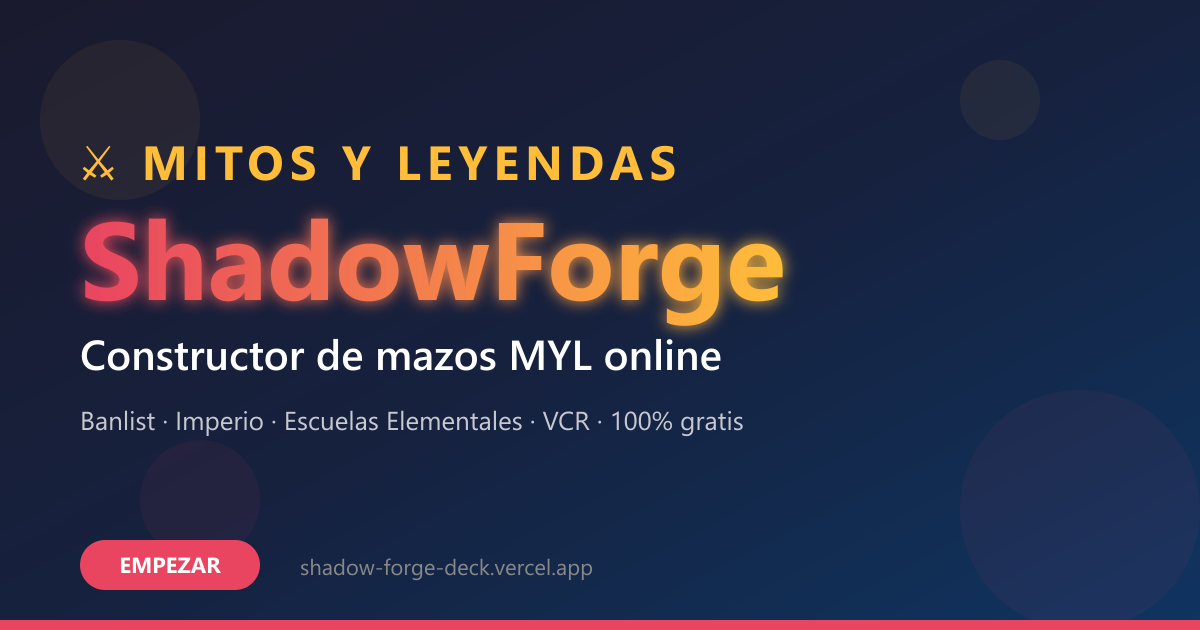
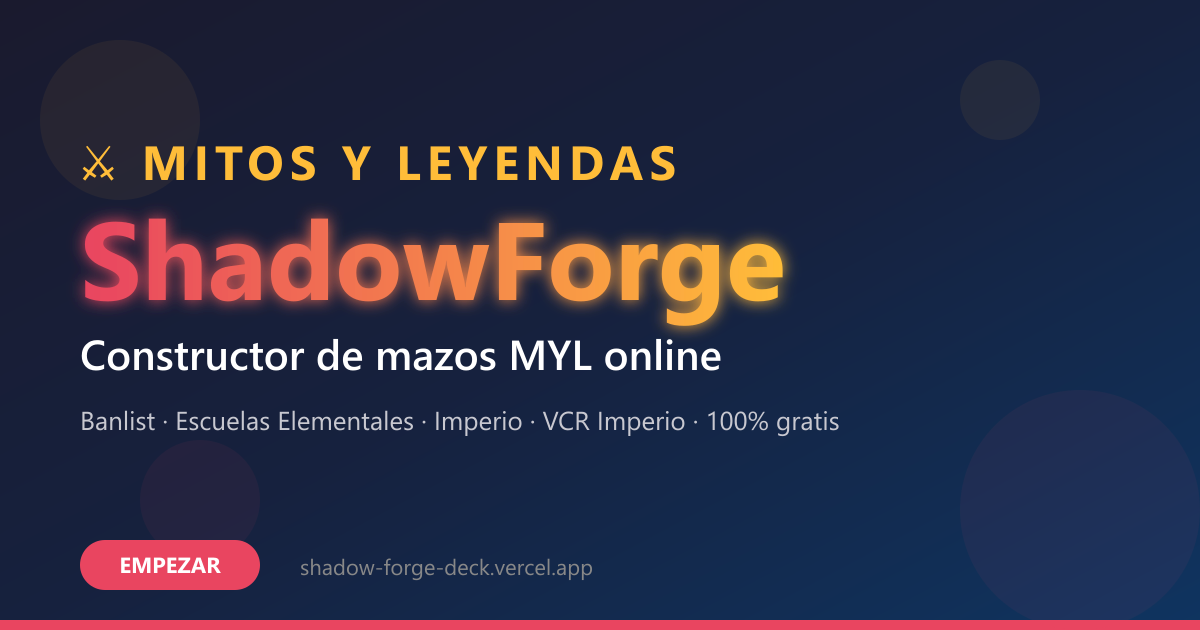
seo: terminologia unificada a Escuelas Elementales / Imperio / VCR Imperio

Changed region(s): [[0.1542, 0.6333, 0.4317, 0.6937], [0.4933, 0.6333, 0.7092, 0.6937]]

diff --git a/frontend/src/index.html b/frontend/src/index.html
@@ -21,15 +21,15 @@
   <meta name="mobile-web-app-capable" content="yes">
   <link rel="manifest" href="manifest.webmanifest">
   <meta name="theme-color" content="#e94560">
-  <meta name="description" content="ShadowForge: constructor y editor de mazos de Mitos y Leyendas (MYL). Explora todas las cartas, valida la banlist oficial, arma decks de Imperio, Escuelas Elementales, VCR y mas, gestiona tu coleccion y comparte tus mazos.">
-  <meta name="keywords" content="mitos y leyendas, MYL, mazos mitos y leyendas, deck builder MYL, banlist mitos y leyendas, VCR mitos y leyendas, imperio MYL, escuelas elementales MYL, cartas mitos y leyendas, TCG chileno, juego de cartas chileno">
+  <meta name="description" content="ShadowForge: constructor y editor de mazos de Mitos y Leyendas (MYL). Explora todas las cartas, valida la banlist oficial, arma decks de Escuelas Elementales, Imperio y VCR Imperio, gestiona tu coleccion y comparte tus mazos.">
+  <meta name="keywords" content="mitos y leyendas, MYL, mazos mitos y leyendas, deck builder MYL, banlist mitos y leyendas, VCR imperio, imperio MYL, escuelas elementales MYL, cartas mitos y leyendas, TCG chileno, juego de cartas chileno">
   <meta name="author" content="ShadowForge">
 
   <!-- Open Graph (preview en WhatsApp, Discord, Twitter, etc.) -->
   <meta property="og:type" content="website">
   <meta property="og:site_name" content="ShadowForge">
   <meta property="og:title" content="ShadowForge — Constructor de mazos Mitos y Leyendas (MYL)">
-  <meta property="og:description" content="Arma, comparte y descubre mazos de Mitos y Leyendas. Banlist oficial, formatos Imperio, Escuelas Elementales y VCR, estadísticas y colección.">
+  <meta property="og:description" content="Arma, comparte y descubre mazos de Mitos y Leyendas. Banlist oficial, formatos Escuelas Elementales, Imperio y VCR Imperio, estadísticas y colección.">
   <meta property="og:image" content="https://shadow-forge-deck.vercel.app/og-image.png">
   <meta property="og:image:width" content="1200">
   <meta property="og:image:height" content="630">
@@ -42,7 +42,7 @@
   <!-- Twitter Card -->
   <meta name="twitter:card" content="summary_large_image">
   <meta name="twitter:title" content="ShadowForge — Constructor de mazos Mitos y Leyendas">
-  <meta name="twitter:description" content="Arma, comparte y descubre mazos MYL. Banlist, Imperio, Escuelas Elementales y VCR.">
+  <meta name="twitter:description" content="Arma, comparte y descubre mazos MYL. Banlist, Escuelas Elementales, Imperio y VCR Imperio.">
   <meta name="twitter:image" content="https://shadow-forge-deck.vercel.app/og-image.png">
 
   <link rel="preconnect" href="https://iterva.pythonanywhere.com" crossorigin>
@@ -84,7 +84,7 @@
         "url": "https://shadow-forge-deck.vercel.app/",
         "applicationCategory": "GameApplication",
         "operatingSystem": "Web, Android, iOS",
-        "description": "Constructor de mazos de Mitos y Leyendas con validación de banlist, formatos Imperio, Escuelas Elementales y VCR.",
+        "description": "Constructor de mazos de Mitos y Leyendas con validación de banlist, formatos Escuelas Elementales, Imperio y VCR Imperio.",
         "inLanguage": "es-CL",
         "isAccessibleForFree": true,
         "offers": {
@@ -110,7 +110,7 @@
             "name": "¿Qué formatos de Mitos y Leyendas soporta?",
             "acceptedAnswer": {
               "@type": "Answer",
-              "text": "Soporta los formatos oficiales: Imperio, Escuelas Elementales y VCR. Cada formato aplica su propia banlist."
+              "text": "Soporta los formatos oficiales: Escuelas Elementales, Imperio y VCR Imperio. Cada formato aplica su propia banlist."
             }
           },
           {

diff --git a/frontend/src/app/app.routes.ts b/frontend/src/app/app.routes.ts
@@ -5,7 +5,7 @@ export const routes: Routes = [
   {
     path: '',
     title: 'ShadowForge — Constructor de mazos Mitos y Leyendas (MYL)',
-    data: { description: 'Arma, comparte y descubre mazos de Mitos y Leyendas. Banlist oficial, formatos Imperio, Escuelas Elementales y VCR, validador de decks y colección personal.' },
+    data: { description: 'Arma, comparte y descubre mazos de Mitos y Leyendas. Banlist oficial, formatos Escuelas Elementales, Imperio y VCR Imperio, validador de decks y colección personal.' },
     loadComponent: () => import('./pages/home/home.component').then(m => m.HomeComponent)
   },
   {
@@ -35,7 +35,7 @@ export const routes: Routes = [
   {
     path: 'decks',
     title: 'Mazos de Mitos y Leyendas — Comunidad ShadowForge',
-    data: { description: 'Descubre mazos de Mitos y Leyendas creados por la comunidad. Imperio, Escuelas Elementales, VCR y más. Filtra por formato, raza y popularidad.' },
+    data: { description: 'Descubre mazos de Mitos y Leyendas creados por la comunidad. Escuelas Elementales, Imperio y VCR Imperio. Filtra por formato, raza y popularidad.' },
     loadComponent: () => import('./pages/deck-list/deck-list.component').then(m => m.DeckListComponent)
   },
   {
@@ -51,7 +51,7 @@ export const routes: Routes = [
   {
     path: 'builder',
     title: 'Elegir formato — Constructor de mazos MYL | ShadowForge',
-    data: { description: 'Elige formato (Imperio, Escuelas Elementales, VCR) y empieza a armar tu mazo de Mitos y Leyendas con validación de banlist en tiempo real.' },
+    data: { description: 'Elige formato (Escuelas Elementales, Imperio o VCR Imperio) y empieza a armar tu mazo de Mitos y Leyendas con validación de banlist en tiempo real.' },
     loadComponent: () => import('./pages/format-select/format-select.component').then(m => m.FormatSelectComponent)
   },
   {
@@ -103,7 +103,7 @@ export const routes: Routes = [
   {
     path: 'banlist-mayo-2026',
     title: 'Banlist Mitos y Leyendas mayo 2026 — cartas baneadas y restringidas | ShadowForge',
-    data: { description: 'Banlist oficial actualizada de Mitos y Leyendas (MYL) para mayo 2026. Cartas baneadas y restringidas en Imperio, Escuelas Elementales y VCR.' },
+    data: { description: 'Banlist oficial actualizada de Mitos y Leyendas (MYL) para mayo 2026. Cartas baneadas y restringidas en Escuelas Elementales, Imperio y VCR Imperio.' },
     loadComponent: () => import('./pages/banlist-article/banlist-article.component').then(m => m.BanlistArticleComponent)
   },
   {

diff --git a/frontend/src/app/pages/banlist-article/banlist-article.component.ts b/frontend/src/app/pages/banlist-article/banlist-article.component.ts
@@ -34,9 +34,9 @@ export class BanlistArticleComponent implements OnInit {
   readonly modifiedDate = '2026-05-03';
 
   formats = signal<FormatBanlist[]>([
-    { code: 'imp', sub: 'racial', label: 'Imperio · Racial', description: 'Mazo racial clásico de Imperio.', banned: [], limited1: [], limited2: [], loading: true },
-    { code: 'imp', sub: 'vcr', label: 'Imperio · VCR', description: 'Vasallo, Cortesano y Real (formato competitivo).', banned: [], limited1: [], limited2: [], loading: true },
-    { code: 'esc', sub: 'racial', label: 'Escuelas Elementales', description: 'Mazos raciales del bloque Escuelas Elementales.', banned: [], limited1: [], limited2: [], loading: true },
+    { code: 'imp', sub: 'racial', label: 'Imperio', description: 'Banlist clásica del formato Imperio.', banned: [], limited1: [], limited2: [], loading: true },
+    { code: 'imp', sub: 'vcr', label: 'VCR Imperio', description: 'Vasallo, Cortesano y Real — formato competitivo de Imperio.', banned: [], limited1: [], limited2: [], loading: true },
+    { code: 'esc', sub: 'racial', label: 'Escuelas Elementales', description: 'Banlist del bloque Escuelas Elementales.', banned: [], limited1: [], limited2: [], loading: true },
   ]);
 
   totalBanned = signal(0);
@@ -89,7 +89,7 @@ export class BanlistArticleComponent implements OnInit {
         '@id': `https://shadow-forge-deck.vercel.app/banlist-${this.month}-${this.year}`,
       },
       image: 'https://shadow-forge-deck.vercel.app/og-image.png',
-      description: `Banlist oficial de Mitos y Leyendas para ${this.month} ${this.year}. Lista de cartas baneadas y restringidas en los formatos Imperio, Escuelas Elementales y VCR.`,
+      description: `Banlist oficial de Mitos y Leyendas para ${this.month} ${this.year}. Lista de cartas baneadas y restringidas en los formatos Escuelas Elementales, Imperio y VCR Imperio.`,
       inLanguage: 'es-CL',
       keywords: 'banlist mitos y leyendas, MYL banlist, cartas baneadas mitos y leyendas, cartas restringidas MYL, imperio banlist, escuelas elementales banlist, VCR banlist',
     };

diff --git a/frontend/src/app/pages/home/home.component.html b/frontend/src/app/pages/home/home.component.html
@@ -50,8 +50,8 @@
       compartir tus creaciones con la comunidad.
     </p>
     <p>
-      Soporta los <strong>formatos oficiales</strong>: Imperio, Escuelas
-      Elementales y VCR (Vanguardia con Restricciones). El validador detecta
+      Soporta los <strong>formatos oficiales</strong>: Escuelas Elementales,
+      Imperio y VCR Imperio (Vasallo, Cortesano y Real). El validador detecta
       cartas baneadas, restringidas y verifica el límite de copias por
       edición. Cada mazo guarda sus estadísticas: distribución por costo,
       daño, tipo de carta, raza y edición.
@@ -78,7 +78,7 @@
       <li><a routerLink="/builder">Construir un mazo nuevo</a> — elige formato y empieza a jugar.</li>
       <li><a routerLink="/decks">Ver mazos de la comunidad</a> — inspiración y meta actual de MYL.</li>
       <li><a routerLink="/decks/compare">Comparar mazos</a> — encuentra diferencias entre dos decks.</li>
-      <li><a routerLink="/banlist-mayo-2026">Banlist Mitos y Leyendas mayo 2026</a> — cartas baneadas y restringidas en Imperio, Escuelas Elementales y VCR.</li>
+      <li><a routerLink="/banlist-mayo-2026">Banlist Mitos y Leyendas mayo 2026</a> — cartas baneadas y restringidas en Escuelas Elementales, Imperio y VCR Imperio.</li>
       <li><a routerLink="/tiendas">Tiendas de Mitos y Leyendas</a> — directorio de tiendas físicas y online en Chile.</li>
     </ul>
   </div>
@@ -91,7 +91,7 @@
     </details>
     <details>
       <summary>¿Qué formatos de Mitos y Leyendas soporta?</summary>
-      <p>Soporta los formatos oficiales: Imperio, Escuelas Elementales y VCR. Cada formato aplica su propia banlist.</p>
+      <p>Soporta los formatos oficiales: Escuelas Elementales, Imperio y VCR Imperio. Cada formato aplica su propia banlist.</p>
     </details>
     <details>
       <summary>¿Puedo guardar mis mazos sin registrarme?</summary>

diff --git a/frontend/src/app/pages/banlist-article/banlist-article.component.html b/frontend/src/app/pages/banlist-article/banlist-article.component.html
@@ -147,8 +147,8 @@
       <p>El árbitro pedirá que retires el mazo. Por eso conviene validarlo antes con el <a routerLink="/builder">constructor</a>.</p>
     </details>
     <details>
-      <summary>¿Hay diferencia entre Imperio Racial y VCR?</summary>
-      <p>Sí. Imperio Racial usa la banlist clásica del formato Imperio. VCR (Vasallo, Cortesano, Real) tiene una banlist propia más estricta y orientada al juego competitivo.</p>
+      <summary>¿Hay diferencia entre Imperio clásico y VCR Imperio?</summary>
+      <p>Sí. Imperio clásico usa la banlist tradicional del formato. VCR Imperio (Vasallo, Cortesano y Real) tiene una banlist propia más estricta y orientada al juego competitivo.</p></p>
     </details>
   </section>
 

diff --git a/frontend/src/app/seo-title-strategy.ts b/frontend/src/app/seo-title-strategy.ts
@@ -5,7 +5,7 @@ import { RouterStateSnapshot, TitleStrategy } from '@angular/router';
 
 const SITE_URL = 'https://shadow-forge-deck.vercel.app';
 const DEFAULT_TITLE = 'ShadowForge — Constructor de mazos Mitos y Leyendas (MYL)';
-const DEFAULT_DESC = 'ShadowForge: constructor y editor de mazos de Mitos y Leyendas (MYL). Banlist oficial, formatos Imperio, Escuelas Elementales y VCR, colección y comparador de decks.';
+const DEFAULT_DESC = 'ShadowForge: constructor y editor de mazos de Mitos y Leyendas (MYL). Banlist oficial, formatos Escuelas Elementales, Imperio y VCR Imperio, colección y comparador de decks.';
 
 /**
  * TitleStrategy custom que sincroniza <title>, meta description, OG y <link rel=canonical>
